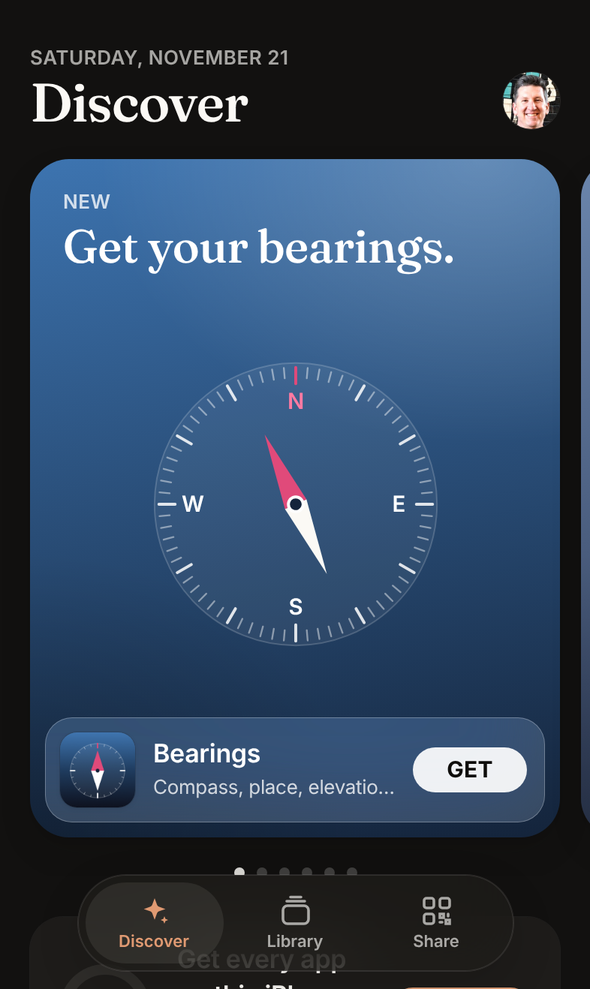
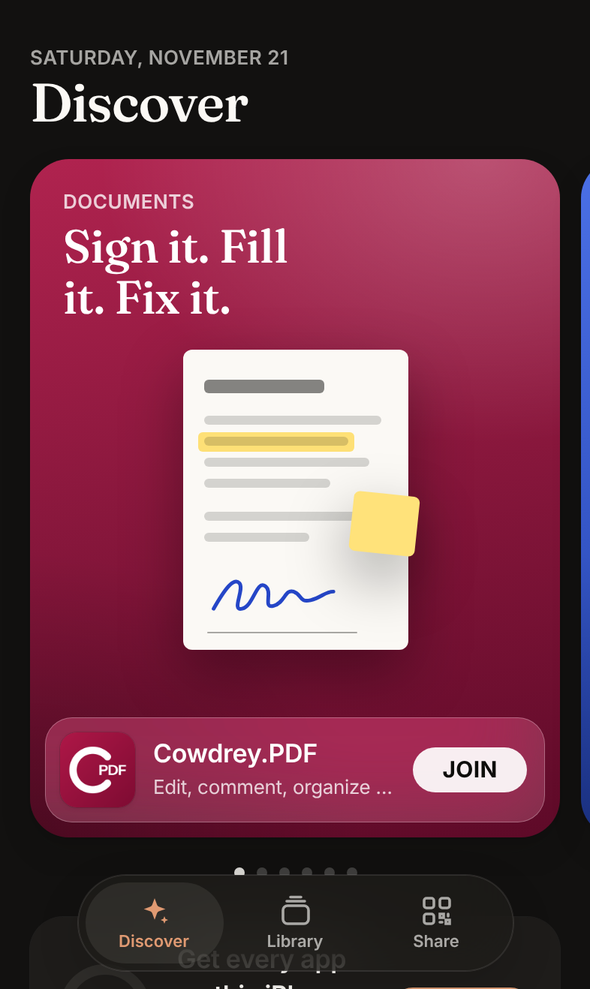
Apps in bradcowdrey.com's order; Bradley's photo only in About
- The apps now appear in the same order as the software section of bradcowdrey.com:
  Cowdrey.PDF, Cowdrey.MD, Meridian, Two Degrees, Bearings, then Golden Hour
  (not on the site yet)
- Discover's header no longer has Bradley's photo, and an app page's Developer box
  shows an icon: the photo is in About
- Featured headlines get a little more room before they wrap

Claude-Session: https://claude.ai/code/session_0121CDm3T9bJcPZiRVm92y6R

diff --git a/web/catalog.js b/web/catalog.js
@@ -4,7 +4,8 @@
    - sky: the gradient behind the app's card and page, from its icon (top, bottom).
    - platforms: each has a requirement line and its ways to get the app, best first. kind is one of
      appstore, testflight, macappstore, dmg, apk, web. Leave a platform out if the app isn't on it.
-   - status: optional label on the card, e.g. "New" or "Preview". */
+   - status: optional label on the card, e.g. "New" or "Preview".
+   The apps appear in this order everywhere: keep it the same as the software section of bradcowdrey.com. */
 window.CATALOG = {
   // Where Cowdrey One lives on the web: the QR code and Share link go here. pages.yml publishes web/ to it.
   hubUrl: 'https://bradleycowdrey.github.io/cowdrey-one/',
@@ -17,34 +18,87 @@ window.CATALOG = {
 
   apps: [
     {
-      id: 'bearings',
-      name: 'Bearings',
-      subtitle: 'Compass, place, elevation, sun and moon',
-      headline: 'Get your bearings.',
-      category: 'Navigation',
-      status: 'New',
-      version: '2.3.1',
-      repo: 'bradleycowdrey/bearings',
-      page: 'https://bradcowdrey.com/bearings',
-      sky: ['#3D74B0', '#14243B'],
-      about: 'The compass, where you are, the time, your coordinates and elevation, the sun and moon, and a map, on one screen. Free and open source, with widgets.',
+      id: 'cowdrey-pdf',
+      name: 'Cowdrey.PDF',
+      subtitle: 'Edit, comment, organize and protect PDFs',
+      headline: 'Sign it. Fill it. Fix it.',
+      category: 'Documents',
+      version: '1.0.0',
+      repo: 'bradleycowdrey/cowdrey-pdf',
+      page: 'https://bradcowdrey.com/cowdrey-pdf',
+      sky: ['#B0234F', '#5E0A28'],
+      about: 'Read, mark up, sign, fill forms and rearrange pages, with nothing leaving your device. Edit text and pictures in place, OCR, redact and compress.',
       features: [
-        'A clear compass, true or magnetic north, with the declination and accuracy',
-        'The town you’re in, the date and time, on a bar the colour of the sky',
-        'Elevation in feet and metres at once',
-        'Six coordinate formats, from decimal degrees to MGRS and Plus Codes',
-        'Lock a bearing or mark a spot, and see how far you’ve turned or walked',
-        'Night mode, all in red, to keep your night vision',
+        'Click a line to retype it in its own font and colour',
+        'Highlight, draw, sticky notes and signatures',
+        'Fill forms; rotate, reorder, insert and extract pages',
+        'Open password-protected PDFs; passwords are never stored',
+        'Every PDF you open is kept on this device, with its mark-up',
       ],
       platforms: {
-        ios: { req: 'iOS 17 or later', get: [
-          { kind: 'appstore', url: 'https://apps.apple.com/app/id6831731564' },
-          { kind: 'testflight', url: 'https://testflight.apple.com/join/b2g6WgZb' } ] },
+        ios: { req: 'iOS 15 or later · App Store version on its way', get: [
+          { kind: 'testflight', url: 'https://testflight.apple.com/join/tr4eD534' } ] },
+        mac: { req: 'macOS 10.15 or later', get: [
+          { kind: 'dmg', url: 'https://github.com/bradleycowdrey/cowdrey-pdf/releases/latest/download/Cowdrey.PDF.dmg' } ] },
+        web: { req: 'Any modern browser', get: [ { kind: 'web', url: 'https://bradcowdrey.com/cowdrey-pdf/app' } ] },
+      },
+      soon: { android: 'Coming soon' },
+    },
+    {
+      id: 'cowdrey-md',
+      name: 'Cowdrey.MD',
+      subtitle: 'Markdown that feels like Docs and Word',
+      headline: 'Write in Markdown. Read a page.',
+      category: 'Writing',
+      version: '2.0.2',
+      repo: 'bradleycowdrey/cowdrey-md',
+      page: 'https://bradcowdrey.com/cowdrey-md',
+      sky: ['#4B70E6', '#1E3BA6'],
+      about: 'Write Markdown on the left and see a printable page on the right, with a ribbon toolbar, live preview, math, diagrams, callouts and tables. Files stay where they are.',
+      features: [
+        'Side-by-side writing with a paper page, or read and tap Edit on a phone',
+        'PDF and Word export on every platform',
+        'A sync folder, such as iCloud Drive, for every device',
+        'Search, folders, pins and 90 days of version history',
+        'Your default Markdown app on Mac, iPhone, iPad and Android',
+      ],
+      platforms: {
+        ios: { req: 'iOS 15 or later', get: [
+          { kind: 'appstore', url: 'https://apps.apple.com/app/id6826704085' },
+          { kind: 'testflight', url: 'https://testflight.apple.com/join/bDgfhxge' } ] },
         android: { req: 'Android 8.0 or later', get: [
-          { kind: 'apk', url: 'https://github.com/bradleycowdrey/bearings/releases/latest/download/Bearings.apk' } ] },
+          { kind: 'apk', url: 'https://github.com/bradleycowdrey/cowdrey-md/releases/latest/download/Cowdrey.MD.apk' } ] },
+        mac: { req: 'macOS 10.15 or later', get: [
+          { kind: 'dmg', url: 'https://github.com/bradleycowdrey/cowdrey-md/releases/latest/download/Cowdrey.MD.dmg' } ] },
+        web: { req: 'Any modern browser', get: [ { kind: 'web', url: 'https://bradcowdrey.com/cowdrey-md/app' } ] },
+      },
+    },
+    {
+      id: 'meridian',
+      name: 'Meridian',
+      subtitle: 'A world clock and time-zone planner',
+      headline: 'Every time zone at a glance.',
+      category: 'Productivity',
+      version: '2.1.4',
+      repo: 'bradleycowdrey/meridian',
+      page: 'https://bradcowdrey.com/meridian',
+      sky: ['#4A7DB8', '#16243A'],
+      about: 'Each city on a photo of its skyline, by day or by night there, with its time, a status (Working, Off hours, Weekend or the holiday’s name) and hour tiles that make working hours stand out.',
+      features: [
+        'Find a Time: see when everyone is working, then send the invite',
+        'People and groups: a card for a colleague in their city',
+        'Public holidays count as days off, by name, in every country',
+        '34,000 cities, offline',
+        'Clock-change notices two weeks ahead',
+      ],
+      platforms: {
+        ios: { req: 'iOS 17 or later · iPhone', get: [
+          { kind: 'appstore', url: 'https://apps.apple.com/app/id6826713540' } ] },
+        android: { req: 'Android 8.0 or later', get: [
+          { kind: 'apk', url: 'https://github.com/bradleycowdrey/meridian/raw/ci-android/Meridian-debug.apk' } ] },
         mac: { req: 'macOS 14 or later', get: [
-          { kind: 'dmg', url: 'https://github.com/bradleycowdrey/bearings/releases/latest/download/Bearings.dmg' } ] },
-        web: { req: 'Any modern browser', get: [ { kind: 'web', url: 'https://bradcowdrey.com/bearings/app.html' } ] },
+          { kind: 'dmg', url: 'https://github.com/bradleycowdrey/meridian/releases/latest/download/Meridian.dmg' } ] },
+        web: { req: 'Any modern browser', get: [ { kind: 'web', url: 'https://bradcowdrey.com/meridian' } ] },
       },
     },
     {
@@ -77,88 +131,35 @@ window.CATALOG = {
       },
     },
     {
-      id: 'meridian',
-      name: 'Meridian',
-      subtitle: 'A world clock and time-zone planner',
-      headline: 'Every time zone at a glance.',
-      category: 'Productivity',
-      version: '2.1.4',
-      repo: 'bradleycowdrey/meridian',
-      page: 'https://bradcowdrey.com/meridian',
-      sky: ['#4A7DB8', '#16243A'],
-      about: 'Each city on a photo of its skyline, by day or by night there, with its time, a status (Working, Off hours, Weekend or the holiday’s name) and hour tiles that make working hours stand out.',
+      id: 'bearings',
+      name: 'Bearings',
+      subtitle: 'Compass, place, elevation, sun and moon',
+      headline: 'Get your bearings.',
+      category: 'Navigation',
+      status: 'New',
+      version: '2.3.1',
+      repo: 'bradleycowdrey/bearings',
+      page: 'https://bradcowdrey.com/bearings',
+      sky: ['#3D74B0', '#14243B'],
+      about: 'The compass, where you are, the time, your coordinates and elevation, the sun and moon, and a map, on one screen. Free and open source, with widgets.',
       features: [
-        'Find a Time: see when everyone is working, then send the invite',
-        'People and groups: a card for a colleague in their city',
-        'Public holidays count as days off, by name, in every country',
-        '34,000 cities, offline',
-        'Clock-change notices two weeks ahead',
+        'A clear compass, true or magnetic north, with the declination and accuracy',
+        'The town you’re in, the date and time, on a bar the colour of the sky',
+        'Elevation in feet and metres at once',
+        'Six coordinate formats, from decimal degrees to MGRS and Plus Codes',
+        'Lock a bearing or mark a spot, and see how far you’ve turned or walked',
+        'Night mode, all in red, to keep your night vision',
       ],
       platforms: {
-        ios: { req: 'iOS 17 or later · iPhone', get: [
-          { kind: 'appstore', url: 'https://apps.apple.com/app/id6826713540' } ] },
+        ios: { req: 'iOS 17 or later', get: [
+          { kind: 'appstore', url: 'https://apps.apple.com/app/id6831731564' },
+          { kind: 'testflight', url: 'https://testflight.apple.com/join/b2g6WgZb' } ] },
         android: { req: 'Android 8.0 or later', get: [
-          { kind: 'apk', url: 'https://github.com/bradleycowdrey/meridian/raw/ci-android/Meridian-debug.apk' } ] },
+          { kind: 'apk', url: 'https://github.com/bradleycowdrey/bearings/releases/latest/download/Bearings.apk' } ] },
         mac: { req: 'macOS 14 or later', get: [
-          { kind: 'dmg', url: 'https://github.com/bradleycowdrey/meridian/releases/latest/download/Meridian.dmg' } ] },
-        web: { req: 'Any modern browser', get: [ { kind: 'web', url: 'https://bradcowdrey.com/meridian' } ] },
+          { kind: 'dmg', url: 'https://github.com/bradleycowdrey/bearings/releases/latest/download/Bearings.dmg' } ] },
+        web: { req: 'Any modern browser', get: [ { kind: 'web', url: 'https://bradcowdrey.com/bearings/app.html' } ] },
       },
-    },
-    {
-      id: 'cowdrey-md',
-      name: 'Cowdrey.MD',
-      subtitle: 'Markdown that feels like Docs and Word',
-      headline: 'Write in Markdown. Read a page.',
-      category: 'Writing',
-      version: '2.0.2',
-      repo: 'bradleycowdrey/cowdrey-md',
-      page: 'https://bradcowdrey.com/cowdrey-md',
-      sky: ['#4B70E6', '#1E3BA6'],
-      about: 'Write Markdown on the left and see a printable page on the right, with a ribbon toolbar, live preview, math, diagrams, callouts and tables. Files stay where they are.',
-      features: [
-        'Side-by-side writing with a paper page, or read and tap Edit on a phone',
-        'PDF and Word export on every platform',
-        'A sync folder, such as iCloud Drive, for every device',
-        'Search, folders, pins and 90 days of version history',
-        'Your default Markdown app on Mac, iPhone, iPad and Android',
-      ],
-      platforms: {
-        ios: { req: 'iOS 15 or later', get: [
-          { kind: 'appstore', url: 'https://apps.apple.com/app/id6826704085' },
-          { kind: 'testflight', url: 'https://testflight.apple.com/join/bDgfhxge' } ] },
-        android: { req: 'Android 8.0 or later', get: [
-          { kind: 'apk', url: 'https://github.com/bradleycowdrey/cowdrey-md/releases/latest/download/Cowdrey.MD.apk' } ] },
-        mac: { req: 'macOS 10.15 or later', get: [
-          { kind: 'dmg', url: 'https://github.com/bradleycowdrey/cowdrey-md/releases/latest/download/Cowdrey.MD.dmg' } ] },
-        web: { req: 'Any modern browser', get: [ { kind: 'web', url: 'https://bradcowdrey.com/cowdrey-md/app' } ] },
-      },
-    },
-    {
-      id: 'cowdrey-pdf',
-      name: 'Cowdrey.PDF',
-      subtitle: 'Edit, comment, organize and protect PDFs',
-      headline: 'Sign it. Fill it. Fix it.',
-      category: 'Documents',
-      version: '1.0.0',
-      repo: 'bradleycowdrey/cowdrey-pdf',
-      page: 'https://bradcowdrey.com/cowdrey-pdf',
-      sky: ['#B0234F', '#5E0A28'],
-      about: 'Read, mark up, sign, fill forms and rearrange pages, with nothing leaving your device. Edit text and pictures in place, OCR, redact and compress.',
-      features: [
-        'Click a line to retype it in its own font and colour',
-        'Highlight, draw, sticky notes and signatures',
-        'Fill forms; rotate, reorder, insert and extract pages',
-        'Open password-protected PDFs; passwords are never stored',
-        'Every PDF you open is kept on this device, with its mark-up',
-      ],
-      platforms: {
-        ios: { req: 'iOS 15 or later · App Store version on its way', get: [
-          { kind: 'testflight', url: 'https://testflight.apple.com/join/tr4eD534' } ] },
-        mac: { req: 'macOS 10.15 or later', get: [
-          { kind: 'dmg', url: 'https://github.com/bradleycowdrey/cowdrey-pdf/releases/latest/download/Cowdrey.PDF.dmg' } ] },
-        web: { req: 'Any modern browser', get: [ { kind: 'web', url: 'https://bradcowdrey.com/cowdrey-pdf/app' } ] },
-      },
-      soon: { android: 'Coming soon' },
     },
     {
       id: 'golden-hour',

diff --git a/web/app.css b/web/app.css
@@ -81,8 +81,6 @@ main { padding: calc(var(--safe-t) + 12px) 0 calc(var(--safe-b) + 112px); margin
 .large-head > div { flex: 1; min-width: 0; }
 .eyebrow { margin: 0 0 2px; font-size: 13px; font-weight: 600; letter-spacing: .02em; text-transform: uppercase; color: var(--ink-2); }
 .large-title { margin: 0; font: 560 36px/1.05 var(--serif); letter-spacing: -.015em; text-wrap: balance; }
-.avatar { width: 38px; height: 38px; border-radius: 50%; overflow: hidden; box-shadow: 0 0 0 .5px var(--sep); flex: none; margin-bottom: 2px; }
-.avatar img { width: 100%; height: 100%; object-fit: cover; }
 .head-button { height: 34px; padding: 0 14px; border-radius: 999px; background: var(--fill); font-size: 15px; font-weight: 600; color: var(--clay-text); margin-bottom: 4px; }
 
 .navbar { position: fixed; z-index: 30; top: 0; left: var(--side); right: 0; height: calc(var(--safe-t) + 46px); padding-top: var(--safe-t);
@@ -109,7 +107,7 @@ main { padding: calc(var(--safe-t) + 12px) 0 calc(var(--safe-b) + 112px); margin
   background: radial-gradient(120% 70% at 85% 0%, rgba(255, 255, 255, .22), transparent 60%), radial-gradient(90% 60% at 0% 100%, rgba(0, 0, 0, .28), transparent 70%); }
 .feature-top { position: absolute; left: 22px; right: 22px; top: 20px; }
 .feature-top .eyebrow { color: rgba(255, 255, 255, .78); }
-.feature-top h3 { margin: 4px 0 0; font: 520 31px/1.08 var(--serif); letter-spacing: -.01em; max-width: 13ch; text-wrap: balance; }
+.feature-top h3 { margin: 4px 0 0; font: 520 31px/1.08 var(--serif); letter-spacing: -.01em; max-width: 17ch; text-wrap: balance; }
 .feature .art { position: absolute; inset: 104px 0 96px; display: grid; place-items: center; pointer-events: none; }
 .feature-bar { position: absolute; left: 10px; right: 10px; bottom: 10px; display: flex; align-items: center; gap: 12px; padding: 10px 12px 10px 10px;
   border-radius: 18px; background: rgba(255, 255, 255, .16); -webkit-backdrop-filter: blur(24px) saturate(160%); backdrop-filter: blur(24px) saturate(160%);
@@ -348,7 +346,6 @@ button.meta { text-align: left; }
   .side-maker img { width: 34px; height: 34px; border-radius: 50%; }
   .side-maker b { display: block; font-size: 14px; }
   .side-maker small { display: block; font-size: 12px; color: var(--ink-2); }
-  .avatar[data-action="about"] { display: none; }
   .large-head { padding-top: 34px; }
   .large-title { font-size: 40px; }
   .carousel { grid-auto-columns: calc((100% - 14px) / 2); margin: -12px -40px -18px; padding: 16px 40px 26px; scroll-padding: 0 40px; }

diff --git a/web/app.js b/web/app.js
@@ -269,8 +269,7 @@
   function renderDiscover() {
     const half = Math.ceil(APPS.length / 2);
     $('#view-discover').innerHTML = `
-      <header class="large-head"><div><p class="eyebrow">${esc(dateLine())}</p><h1 class="large-title" id="t-discover">Discover</h1></div>
-        <button class="avatar" data-act="about" aria-label="About Bradley Cowdrey"><img src="bradley.jpg" alt=""></button></header>
+      <header class="large-head"><div><p class="eyebrow">${esc(dateLine())}</p><h1 class="large-title" id="t-discover">Discover</h1></div></header>
       <div class="carousel" tabindex="0" role="region" aria-roledescription="carousel" aria-label="Featured apps">${APPS.map(featureCard).join('')}</div>
       <div class="dots" role="tablist" aria-label="Featured apps">${APPS.map((a, i) => `<button role="tab" aria-label="${esc(a.name)}" aria-current="${i === 0}" data-act="slide" data-i="${i}"></button>`).join('')}</div>
       <section class="setup" id="setup-slot">${setupCard()}</section>
@@ -439,7 +438,7 @@
           <div class="fact"><div class="k">Platforms</div><div class="v">${plats.length}</div><div class="c">${plats.map((p) => ({ ios: 'iOS', android: 'Android', mac: 'Mac', web: 'Web' })[p]).join(' · ')}</div></div>
           <div class="fact"><div class="k">Category</div><div class="v">${icon({ Weather: 'cloud', Navigation: 'compass', Productivity: 'clock', Writing: 'doc', Documents: 'doc' }[a.category] || 'stack')}</div><div class="c">${esc(a.category)}</div></div>
           <div class="fact"><div class="k">Privacy</div><div class="v">${icon('lock')}</div><div class="c">No tracking</div></div>
-          <div class="fact"><div class="k">Developer</div><div class="v"><img src="bradley.jpg" alt="" style="width:24px;height:24px;border-radius:50%;margin:0 auto"></div><div class="c">Bradley Cowdrey</div></div>
+          <div class="fact"><div class="k">Developer</div><div class="v">${icon('person')}</div><div class="c">Bradley Cowdrey</div></div>
         </div>
         <div id="whats-new">${whatsNew(a)}</div>
         <div class="section-head"><h2>About</h2></div>

diff --git a/web/index.html b/web/index.html
@@ -85,6 +85,7 @@
     <symbol id="i-info" viewBox="0 0 24 24" fill="none" stroke="currentColor" stroke-width="1.8" stroke-linecap="round"><circle cx="12" cy="12" r="9"/><path d="M12 11v5.5"/><circle cx="12" cy="7.8" r=".6" fill="currentColor"/></symbol>
     <symbol id="i-minus" viewBox="0 0 24 24"><circle cx="12" cy="12" r="10" fill="currentColor"/><path d="M7.5 12h9" stroke="#fff" stroke-width="2.2" stroke-linecap="round"/></symbol>
     <symbol id="i-flask" viewBox="0 0 24 24" fill="none" stroke="currentColor" stroke-width="1.8" stroke-linecap="round" stroke-linejoin="round"><path d="M9.5 3h5M10.5 3v5.5L5 18.5A1.7 1.7 0 0 0 6.5 21h11a1.7 1.7 0 0 0 1.5-2.5l-5.5-10V3"/><path d="M7.5 14.5h9"/></symbol>
+    <symbol id="i-person" viewBox="0 0 24 24" fill="none" stroke="currentColor" stroke-width="1.8" stroke-linecap="round"><circle cx="12" cy="8" r="4"/><path d="M4.5 20.5c1.2-3.6 4.1-5.5 7.5-5.5s6.3 1.9 7.5 5.5"/></symbol>
     <symbol id="i-cloud" viewBox="0 0 24 24" fill="none" stroke="currentColor" stroke-width="1.8" stroke-linejoin="round"><path d="M7 18.5h10.5a4 4 0 0 0 .4-8A6 6 0 0 0 6.3 9.6 4.5 4.5 0 0 0 7 18.5z"/></symbol>
     <symbol id="i-compass" viewBox="0 0 24 24" fill="none" stroke="currentColor" stroke-width="1.8" stroke-linejoin="round"><circle cx="12" cy="12" r="9"/><path d="M15.5 8.5l-2 5-5 2 2-5z" fill="currentColor"/></symbol>
     <symbol id="i-clock" viewBox="0 0 24 24" fill="none" stroke="currentColor" stroke-width="1.8" stroke-linecap="round"><circle cx="12" cy="12" r="9"/><path d="M12 7v5l3.5 2"/></symbol>
